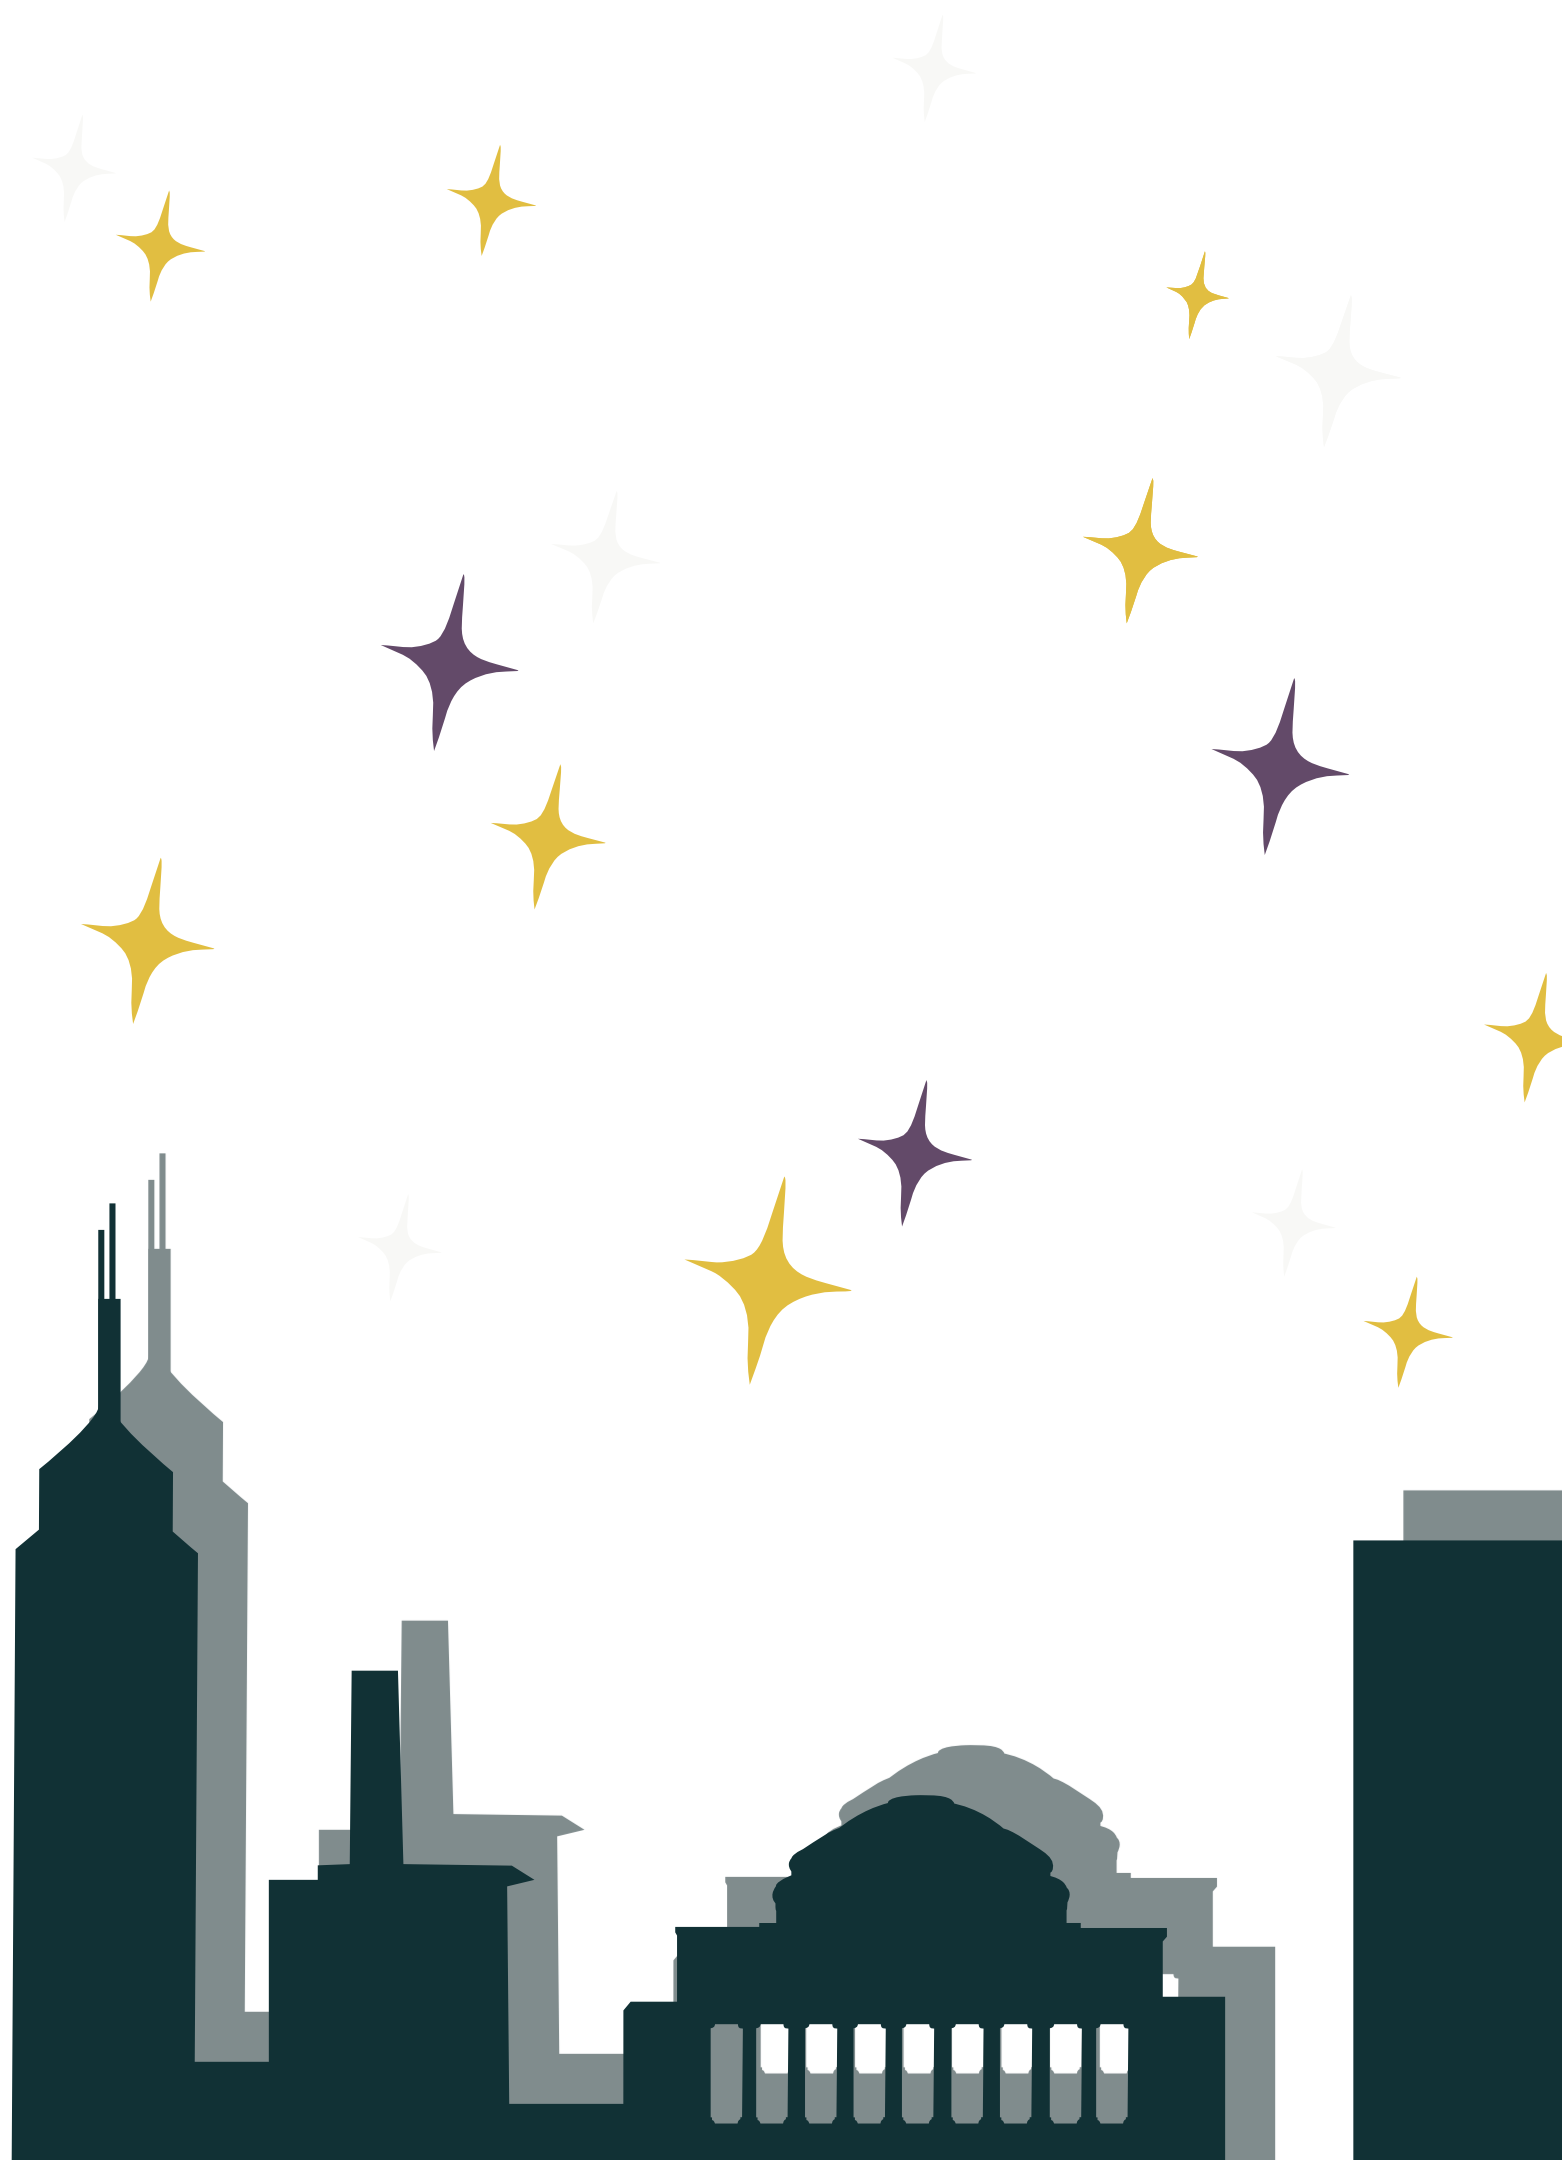
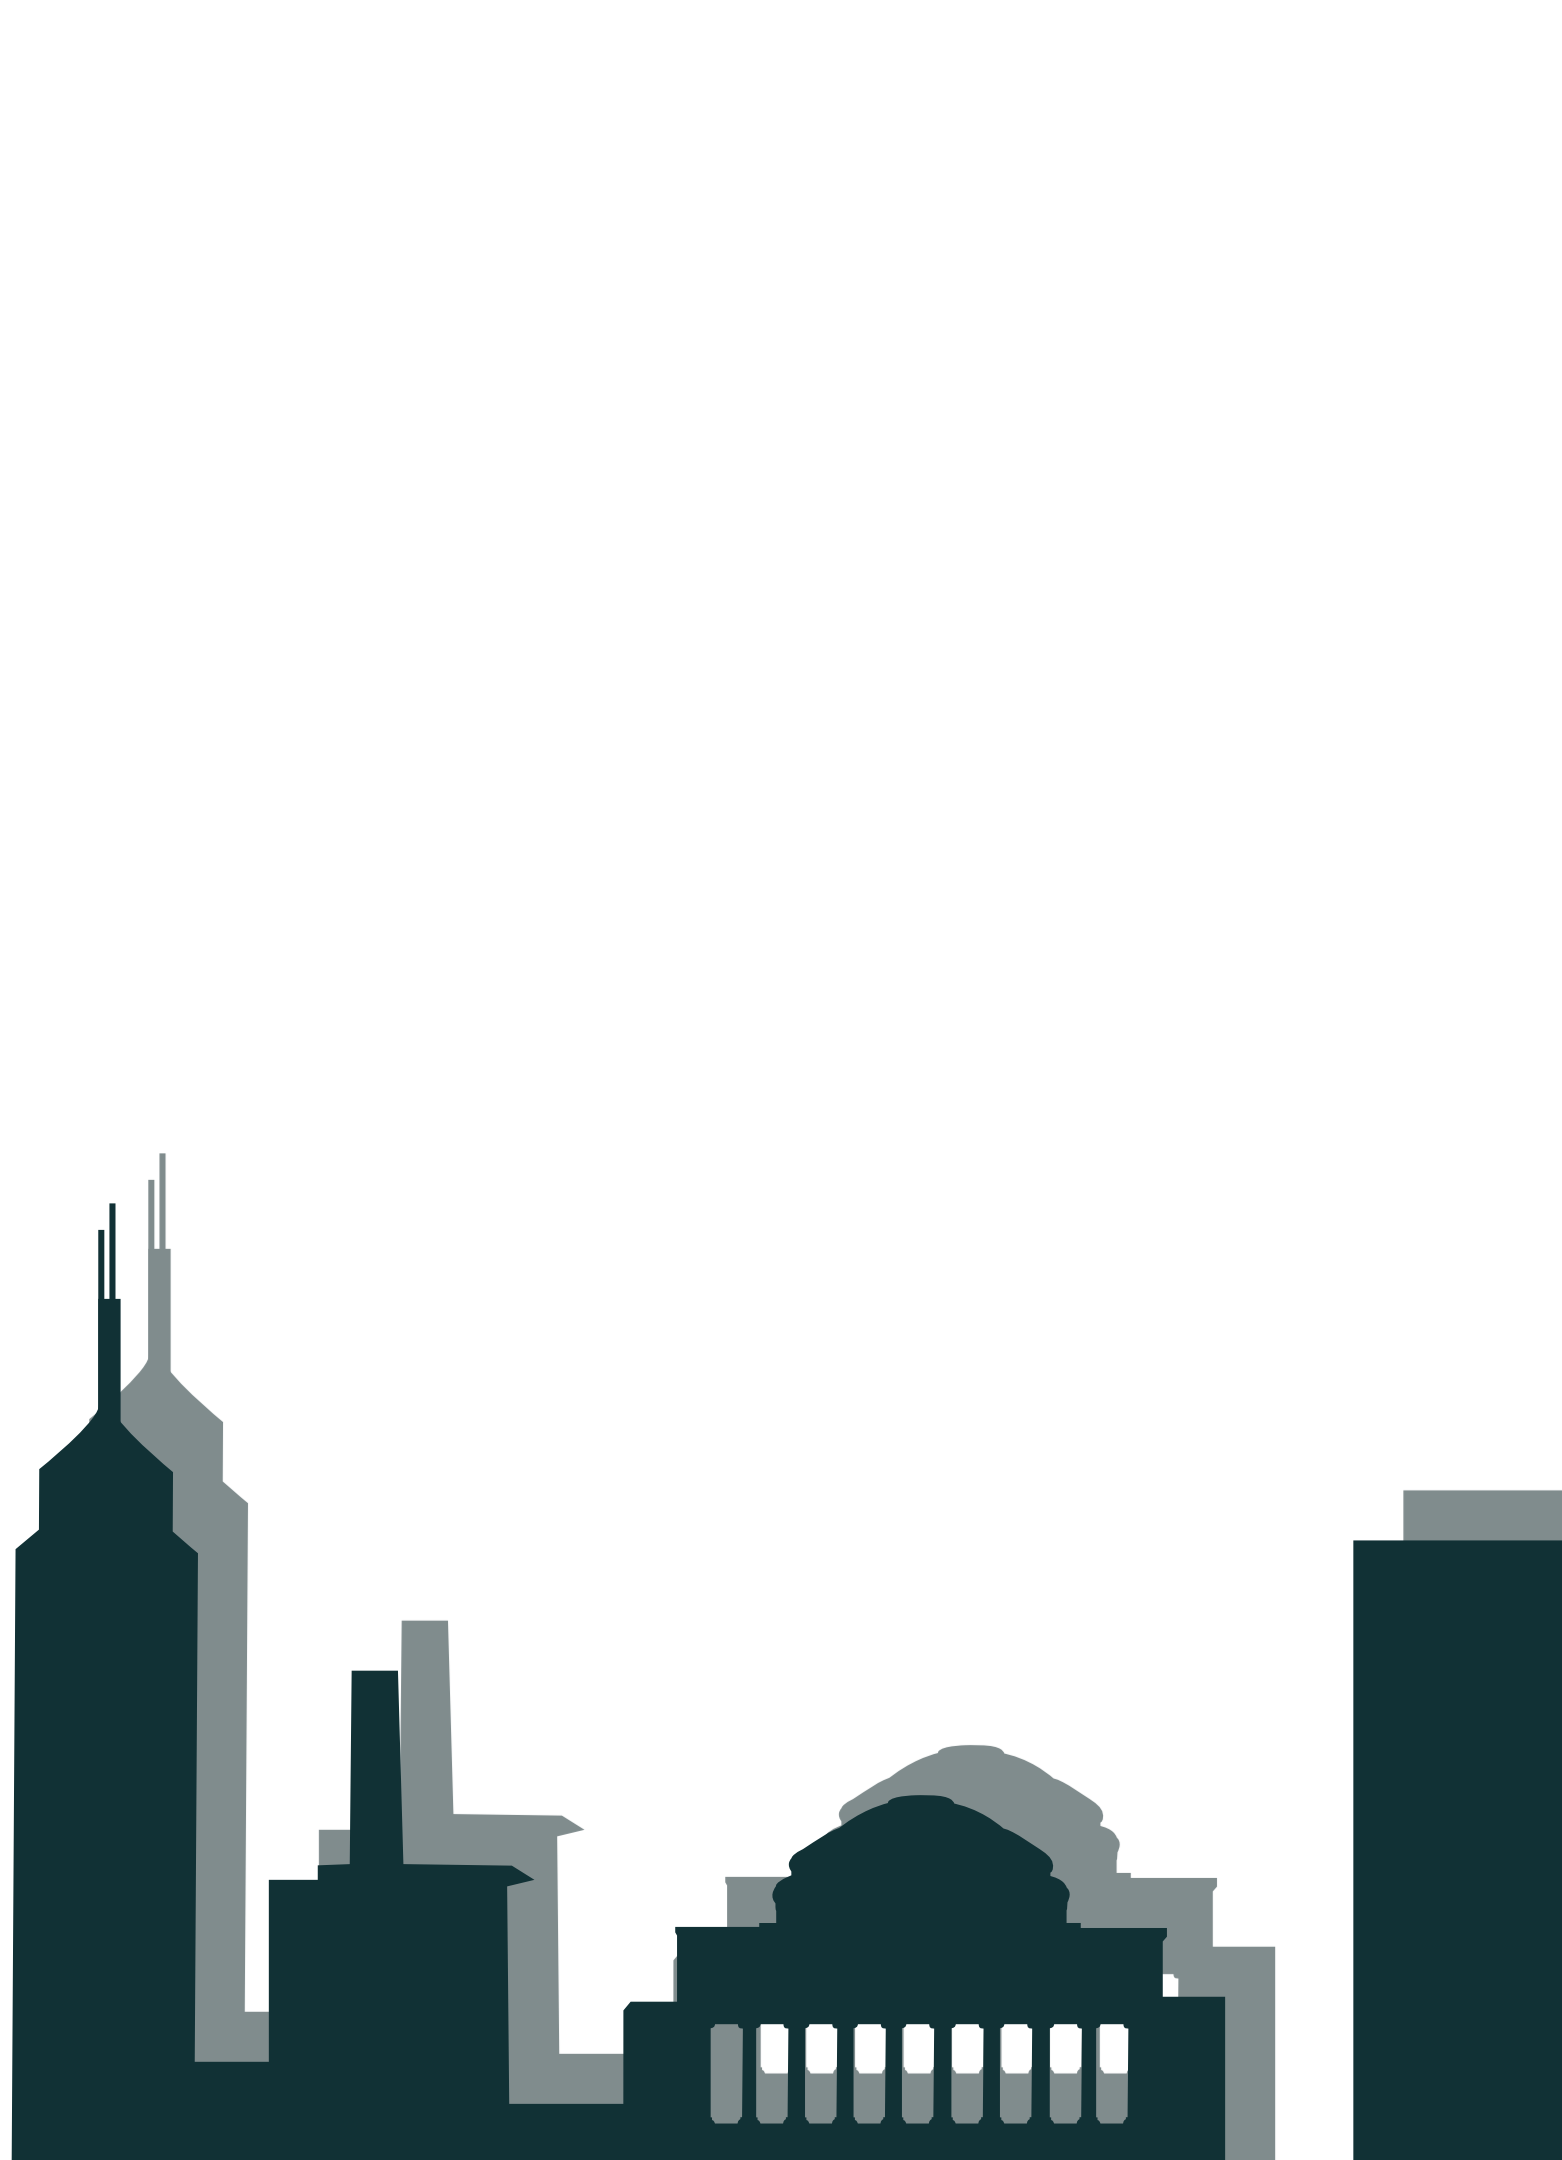
Make stars tile (and fix mobile speech bubble rendering)

diff --git a/site/src/frontend/rounds/the_missing_diamond/MissingDiamondBody.tsx b/site/src/frontend/rounds/the_missing_diamond/MissingDiamondBody.tsx
@@ -18,7 +18,7 @@ import React, {
   type CSSProperties,
   useEffect,
 } from "react";
-import { styled } from "styled-components";
+import { css, styled } from "styled-components";
 import { type TeamHuntState } from "../../../../lib/api/client";
 import { CLIPBOARD_MONOSPACE_FONT_FAMILY } from "../../components/CopyToClipboard";
 import { PuzzleIcon, PuzzleUnlockModal } from "../../components/PuzzleLink";
@@ -27,6 +27,7 @@ import billie from "./assets/billie.png";
 import cork from "./assets/cork.png";
 import map from "./assets/map.png";
 import skyline from "./assets/skyline.png";
+import stars from "./assets/stars.png";
 import title from "./assets/title.png";
 import {
   type MissingDiamondInteractionEntity,
@@ -111,6 +112,18 @@ const MissingDiamondSkyline = styled.div`
   }
 `;
 
+const MissingDiamondStars = styled.div`
+  position: absolute;
+  inset: 0;
+  // The skyline is going to be 40.68vw wide, and we want to go up 49.42% of that
+  margin-bottom: 20.1vw;
+  background: url(${stars}) bottom center / 100%;
+
+  @media ${deviceMax.md} {
+    margin-bottom: 49.42vw;
+  }
+`;
+
 const MissingDiamondBillie = styled.img`
   position: absolute;
   right: 3.33%;
@@ -127,6 +140,8 @@ const SpeechBubble = styled.div<{
   $color: string;
   $glow: boolean;
   $extraBorder: boolean;
+  $i: number;
+  $length: number;
 }>`
   margin-bottom: 14px;
   padding: 20px;
@@ -149,54 +164,70 @@ const SpeechBubble = styled.div<{
     margin-top: 14px;
   }
 
-  &&:first-of-type {
-    margin-left: 5.25%;
-    margin-right: 36.68%;
-    margin-bottom: 8.84%;
-    min-height: 9.2vw;
+  ${({ $i, $length }) => {
+    if ($i === 0) {
+      return css`
+        && {
+          margin-left: 5.25%;
+          margin-right: 36.68%;
+          margin-bottom: 8.84%;
+          min-height: 9.2vw;
 
-    position: relative;
+          position: relative;
 
-    @media ${deviceMax.md} {
-      margin-bottom: initial;
-      margin-top: 8.84%;
+          @media ${deviceMax.md} {
+            margin-bottom: initial;
+            margin-top: 12vw;
+            min-height: 20vw;
+          }
+
+          &::before {
+            content: "";
+            position: absolute;
+            background: rgba(255, 255, 255, 0.86);
+            width: 15%;
+            height: 50px;
+            left: calc(100% + 10px);
+            bottom: 45px;
+            clip-path: polygon(0 0, 100% 100%, 0 75%);
+
+            @media ${deviceMax.md} {
+              bottom: initial;
+              top: 8vw;
+              clip-path: polygon(0 0, 100% 0, 0 75%);
+            }
+          }
+        }
+      `;
+    } else if ($i === $length - 1) {
+      return css`
+        && {
+          margin-top: 2.5%;
+
+          @media ${deviceMax.md} {
+            margin-top: 14px;
+            margin-bottom: 2.5%;
+          }
+        }
+      `;
     }
 
-    &::before {
-      content: "";
-      position: absolute;
-      background: rgba(255, 255, 255, 0.86);
-      width: 15%;
-      height: 50px;
-      left: calc(100% + 10px);
-      bottom: 45px;
-      clip-path: polygon(0 0, 100% 100%, 0 75%);
+    return undefined;
+  }}
 
-      @media ${deviceMax.md} {
-        bottom: initial;
-        top: 45px;
-      }
+  ${({ $i }) => {
+    if ($i % 2 === 0) {
+      return css`
+        margin-left: 16.26%;
+        margin-right: 12.04%;
+      `;
     }
-  }
 
-  &&:last-of-type {
-    margin-top: 2.5%;
-
-    @media ${deviceMax.md} {
-      margin-top: 14px;
-      margin-bottom: 2.5%;
-    }
-  }
-
-  &:nth-child(odd) {
-    margin-left: 16.26%;
-    margin-right: 12.04%;
-  }
-
-  &:nth-child(even) {
-    margin-left: 5.51%;
-    margin-right: 22.79%;
-  }
+    return css`
+      margin-left: 5.51%;
+      margin-right: 22.79%;
+    `;
+  }}
 `;
 
 const EntityContainer = styled.div`
@@ -646,16 +677,19 @@ const MissingDiamondBody = ({
         </MissingDiamondMapContainer>
       </MissingDiamondMapArea>
       <MissingDiamondSkyline>
+        <MissingDiamondStars />
         <MissingDiamondBillie
           src={billie}
           alt="A silhouette of Billie O'Ryan"
         />
-        {state.speechBubbles.map((bubble) => (
+        {state.speechBubbles.map((bubble, i) => (
           <SpeechBubble
             key={bubble.slug}
             $color={bubble.color}
             $glow={bubble.glow ?? false}
             $extraBorder={bubble.extraBorder ?? false}
+            $i={i}
+            $length={state.speechBubbles.length}
           >
             {bubble.text}
           </SpeechBubble>
